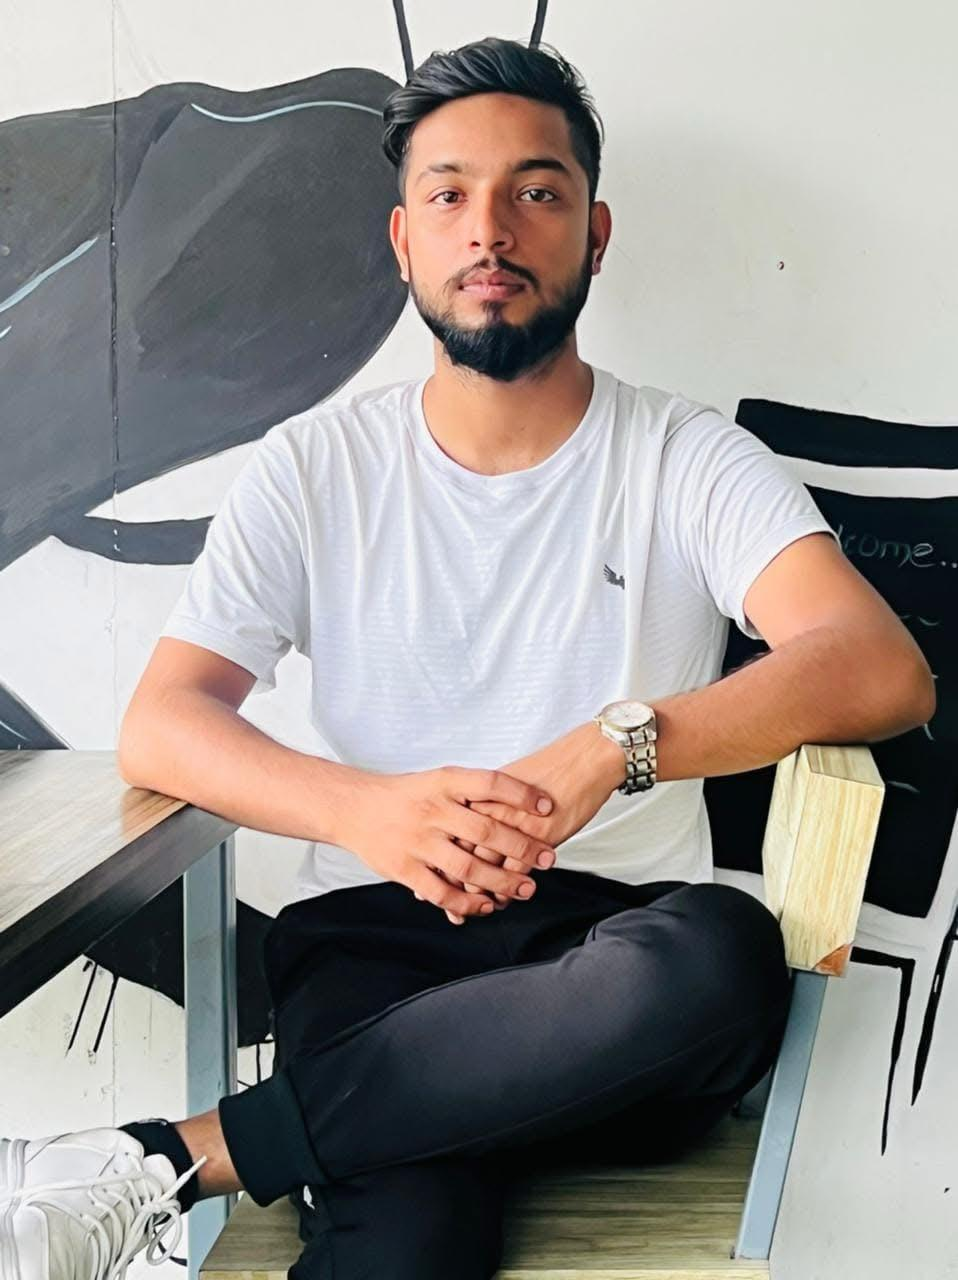
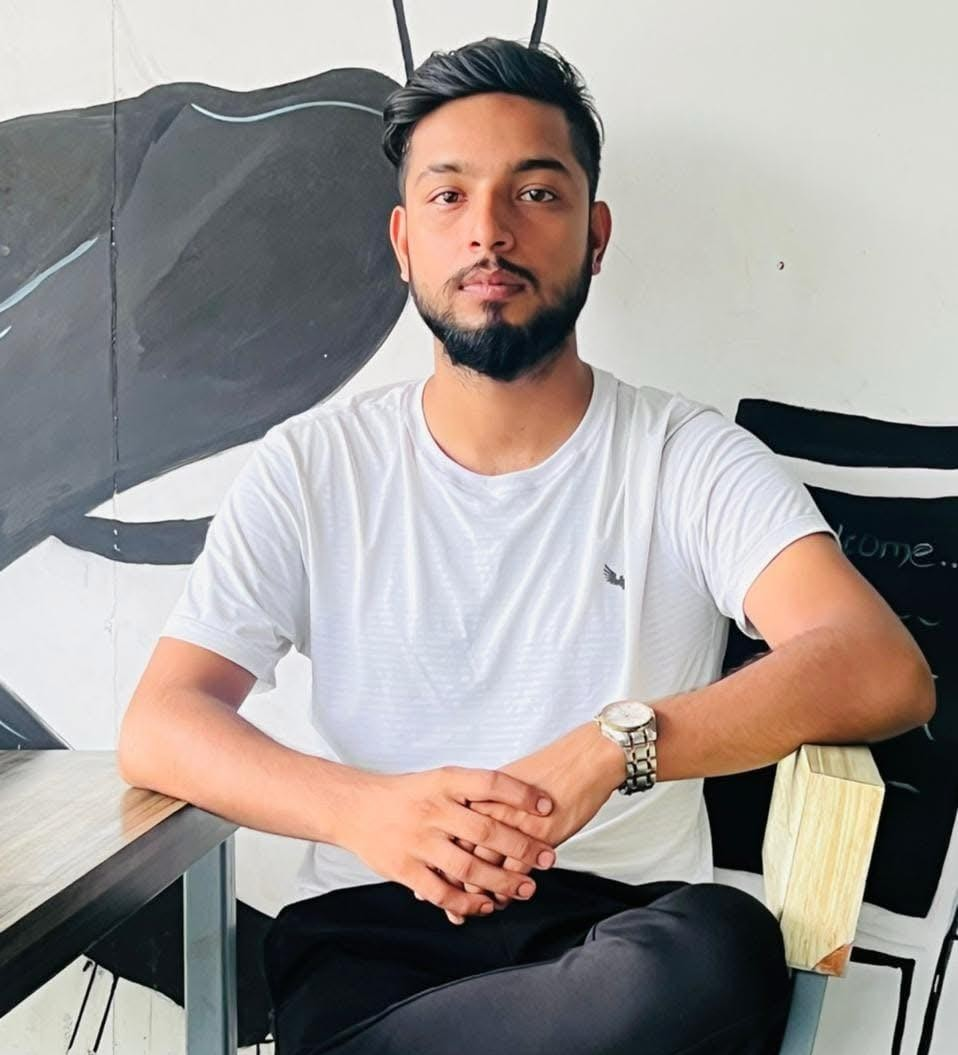
Improve homepage UI: team section layout, testimonials, and map styling

diff --git a/src/components/home/Section.tsx b/src/components/home/Section.tsx
@@ -1,15 +1,15 @@
 import type { ReactNode } from "react";
-import arunImg from "../../assets/arun.png";
-import ausikaImg from "../../assets/ausika.png";
-import bartenderImg from "../../assets/bartender.jpg";
-import ctevtImg from "../../assets/ctevt.jpg";
-import imaIndiaImg from "../../assets/ima-india.jpg";
-import kamantImg from "../../assets/kamant.png";
-import kausalImg from "../../assets/kausal.png";
-import puspaImg from "../../assets/puspa a.png";
-import receptionImg from "../../assets/reception.jpg";
-import santoshImg from "../../assets/santosh.png";
-import whiteshirtImg from "../../assets/whiteshirt.jpg";
+import arunImg from "../../assets/team/arun.png";
+import ausikaImg from "../../assets/team/ausika.png";
+import bartenderImg from "../../assets/team/bartender.jpg";
+import ctevtImg from "../../assets/team/ctevt.jpg";
+import imaIndiaImg from "../../assets/team/ima-india.jpg";
+import kamantImg from "../../assets/team/kamant.png";
+import kausalImg from "../../assets/team/kausal.png";
+import puspaImg from "../../assets/team/puspa a.png";
+import receptionImg from "../../assets/team/reception.jpg";
+import santoshImg from "../../assets/team/santosh.png";
+import whiteshirtImg from "../../assets/team/whiteshirt.jpg";
 // import heroImg from "../../assets/hero image 1.jpg";
 
 interface ServiceItem {
@@ -348,22 +348,24 @@ export default function Home() {
         <h2 className="text-xl md:text-2xl font-bold text-[#1100AB] border-b border-[#cfcaff] pb-3 mb-8">
           Testimonials
         </h2>
-        <div className="w-full grid grid-cols-1 md:grid-cols-3 gap-8 items-start">
+        <div className="w-full grid grid-cols-1 md:grid-cols-2 lg:grid-cols-3 gap-8 md:items-stretch lg:items-start">
           {TESTIMONIALS.map((t, index) => (
             <div
               key={index}
-              className={`w-full bg-[#3b54d6] rounded-2xl pt-4 px-4 shadow-md ${
-                index === 1 ? "md:mt-32 pb-4" : "md:mt-0 pb-2"
+              className={`w-full bg-[#1100AB] rounded-2xl pt-4 px-4 pb-4 shadow-md md:h-full lg:h-auto flex flex-col ${
+                index === 1 ? "lg:mt-[33%]" : ""
+              } ${
+                index === 2 ? "md:col-span-1 md:col-start-1 lg:col-span-1 lg:col-start-auto" : ""
               }`}
             >
               <div className="flex items-center justify-center gap-2 text-white font-semibold text-sm mb-8">
-                <span className="bg-[#f3f3f3] text-[#3b54d6] rounded-full p-1.5 flex items-center justify-center">
+                <span className="bg-[#f3f3f3] text-[#1100AB] rounded-full p-1.5 flex items-center justify-center">
                   <ThumbUpIcon />
                 </span>
                 Testimonial
               </div>
-              <div className="bg-[#f3f3f3] rounded-xl px-5 pb-4 pt-2 relative">
-                <div className="w-16 h-16 md:w-20 md:h-20 rounded-full overflow-hidden border-4 border-[#cfcaff] shadow-md mx-auto -mt-10 mb-2 shrink-0 bg-[#f3f3f3]">
+              <div className="bg-[#f3f3f3] rounded-xl px-5 pb-4 pt-2 relative flex-1 flex flex-col">
+                <div className="w-16 h-16 md:w-20 md:h-20 rounded-full overflow-hidden border-4 border-[#cfcaff] shadow-md mx-auto -mt-8 mb-2 shrink-0 bg-[#f3f3f3]">
                   <img
                     src={t.image}
                     alt={t.name}
@@ -373,7 +375,7 @@ export default function Home() {
                 <div className="mb-2">
                   <StarRating rating={t.rating} id={index} />
                 </div>
-                <p className="text-[#1a1a1a] text-xs md:text-sm leading-relaxed text-justify mt-3 mb-4">
+                <p className="text-[#1a1a1a] text-xs md:text-sm leading-relaxed text-justify mt-3 mb-4 flex-1">
                   {t.quote}
                 </p>
                 <p className="text-center font-bold text-[#1a1a1a] text-sm">
@@ -408,17 +410,15 @@ export default function Home() {
         <h2 className="text-xl md:text-2xl font-bold text-[#1100AB] border-b border-[#cfcaff] pb-3 mb-8">
           Physical Address
         </h2>
-        <div className="bg-[#f3f3f3] rounded-3xl border border-[#cfcaff] shadow-sm overflow-hidden w-full">
-          <div className="p-6 space-y-3">
-            <div className="h-96 w-full rounded-3xl overflow-hidden border-0 shadow-inner">
-              <iframe
-                title="Ritz College Location"
-                className="w-full h-full border-0"
-                src="https://www.google.com/maps/embed?pb=!1m14!1m8!1m3!1d27038.031587023008!2d87.275084!3d26.665936000000002!3m2!1i1024!2i768!4f13.1!3m3!1m2!1s0x39ef6d96708c609b%3A0x372941eafd76a16d!2sRitz%20college%20of%20Hotel%20Management!5e1!3m2!1sen!2sus!4v1783501505178!5m2!1sen!2sus"
-                allowFullScreen
-                loading="lazy"
-              ></iframe>
-            </div>
+        <div className="bg-white rounded-2xl md:rounded-3xl border border-[#e0e0e0] shadow-lg overflow-hidden w-full">
+          <div className="h-64 md:h-80 lg:h-96 w-full">
+            <iframe
+              title="Ritz College Location"
+              className="w-full h-full border-0"
+              src="https://www.google.com/maps/embed?pb=!1m14!1m8!1m3!1d27038.031587023008!2d87.275084!3d26.665936000000002!3m2!1i1024!2i768!4f13.1!3m3!1m2!1s0x39ef6d96708c609b%3A0x372941eafd76a16d!2sRitz%20college%20of%20Hotel%20Management!5e1!3m2!1sen!2sus!4v1783501505178!5m2!1sen!2sus"
+              allowFullScreen
+              loading="lazy"
+            ></iframe>
           </div>
         </div>
       </section>

diff --git a/src/App.tsx b/src/App.tsx
@@ -9,11 +9,11 @@ function App() {
       {/* <ScrollToTop /> */}
       <Navbar />
 
-      {/* <main className="min-h-[calc(100vh-100px)] max-w-384 mx-auto">
+      <main className="min-h-[calc(100vh-100px)] max-w-384 mx-auto">
         <Outlet />
-      </main> */}
+      </main>
 
-        <Outlet />
+        {/* <Outlet /> */}
 
 
       <Footer />